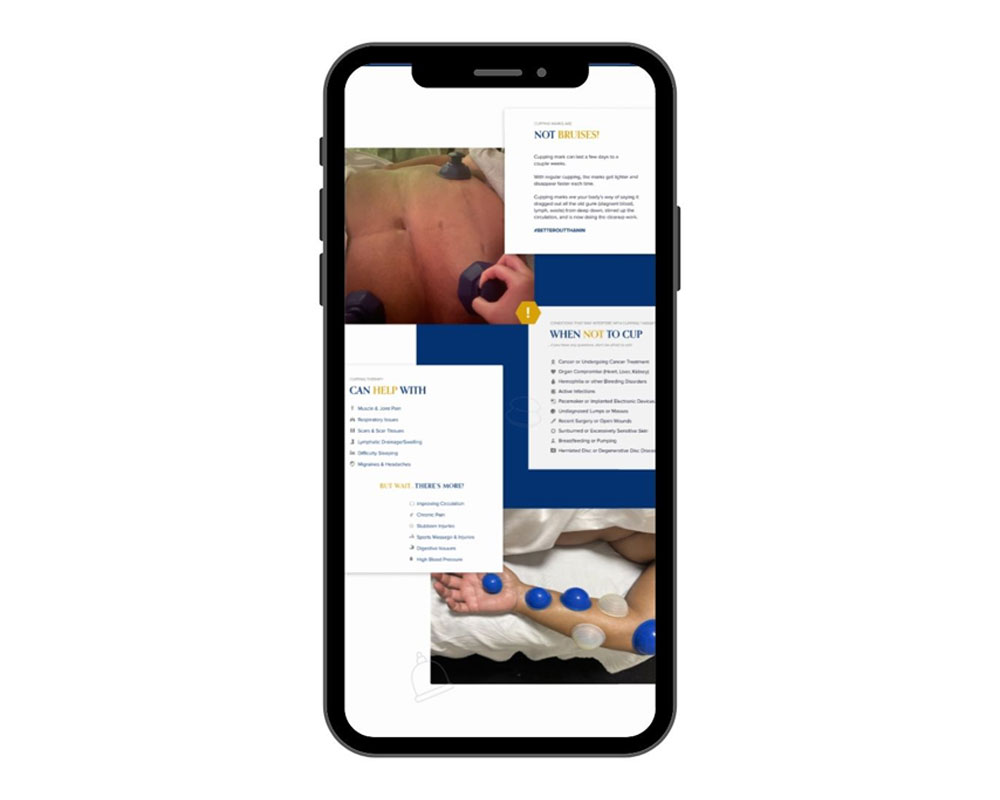
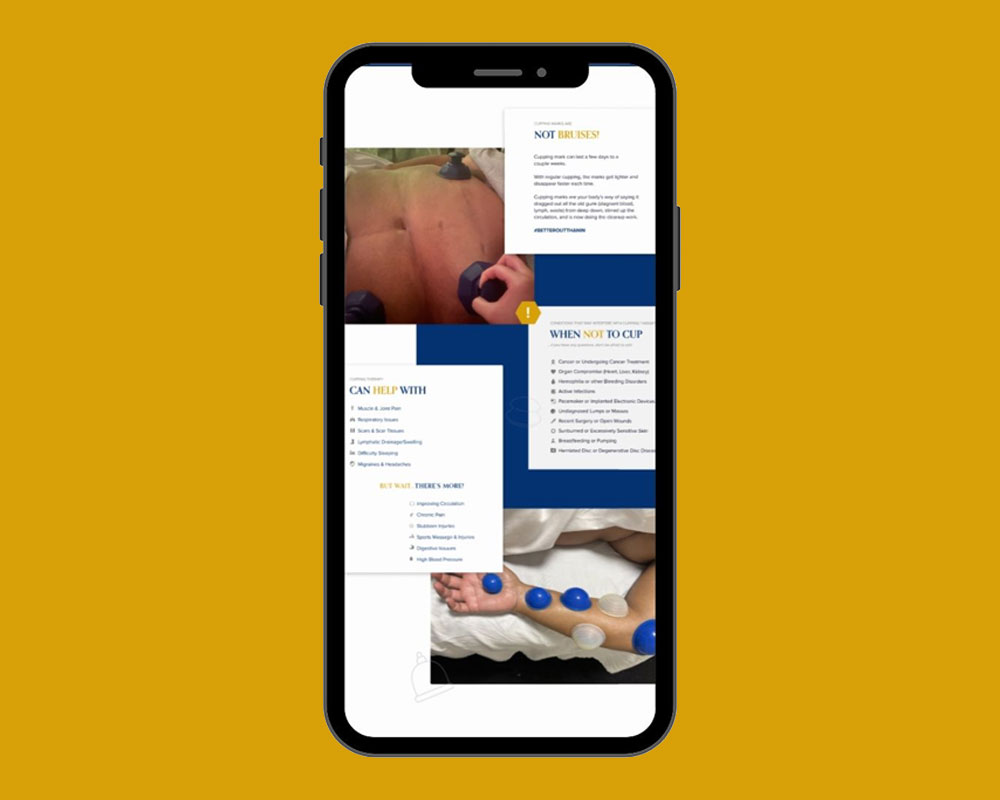
change images

diff --git a/index.html b/index.html
@@ -119,7 +119,7 @@
 
                             <div class="overlay">
                                 <a href="../portfolio/jkcwellness.html"><img
-                                        src="../portfolio/portfolio-images/jkc-mobile-goldback.jpg"
+                                        src="../portfolio/portfolio-images/jkc-mobile.jpg"
                                         alt="image of a phone with JKC Wellness website" width="1000" height="1000">
                                     <h4>JKC Wellness
                                         <br>Interface Programming & Design
